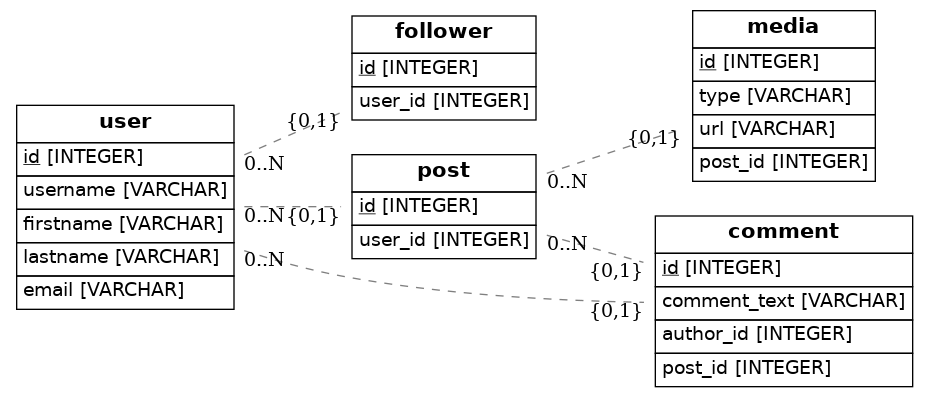
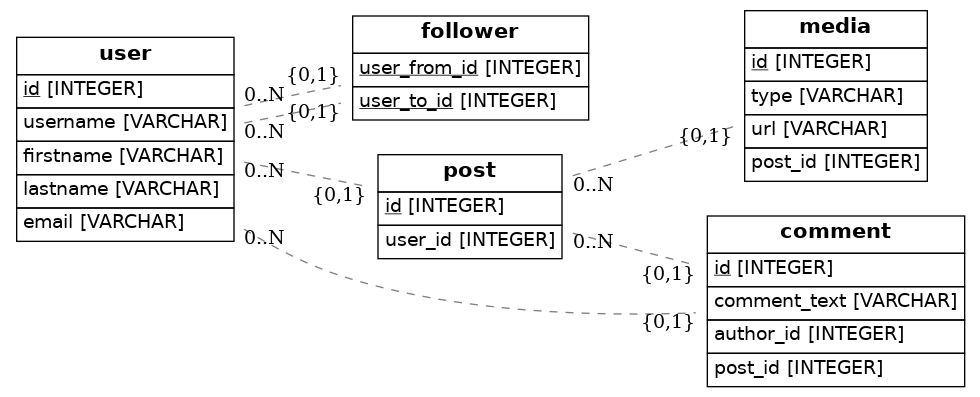
listoco

diff --git a/src/models.py b/src/models.py
@@ -39,8 +39,8 @@ class User(Base):
 
 class Follower(Base):
     __tablename__ = "follower"
-    id = Column(Integer, primary_key = True)
-    user_id = Column(Integer, ForeignKey("user.id"))
+    user_from_id= Column(Integer, ForeignKey("user.id"),primary_key = True)
+    user_to_id = Column(Integer, ForeignKey("user.id"),primary_key = True)
     user = relationship(User)
 
 class Post(Base):
